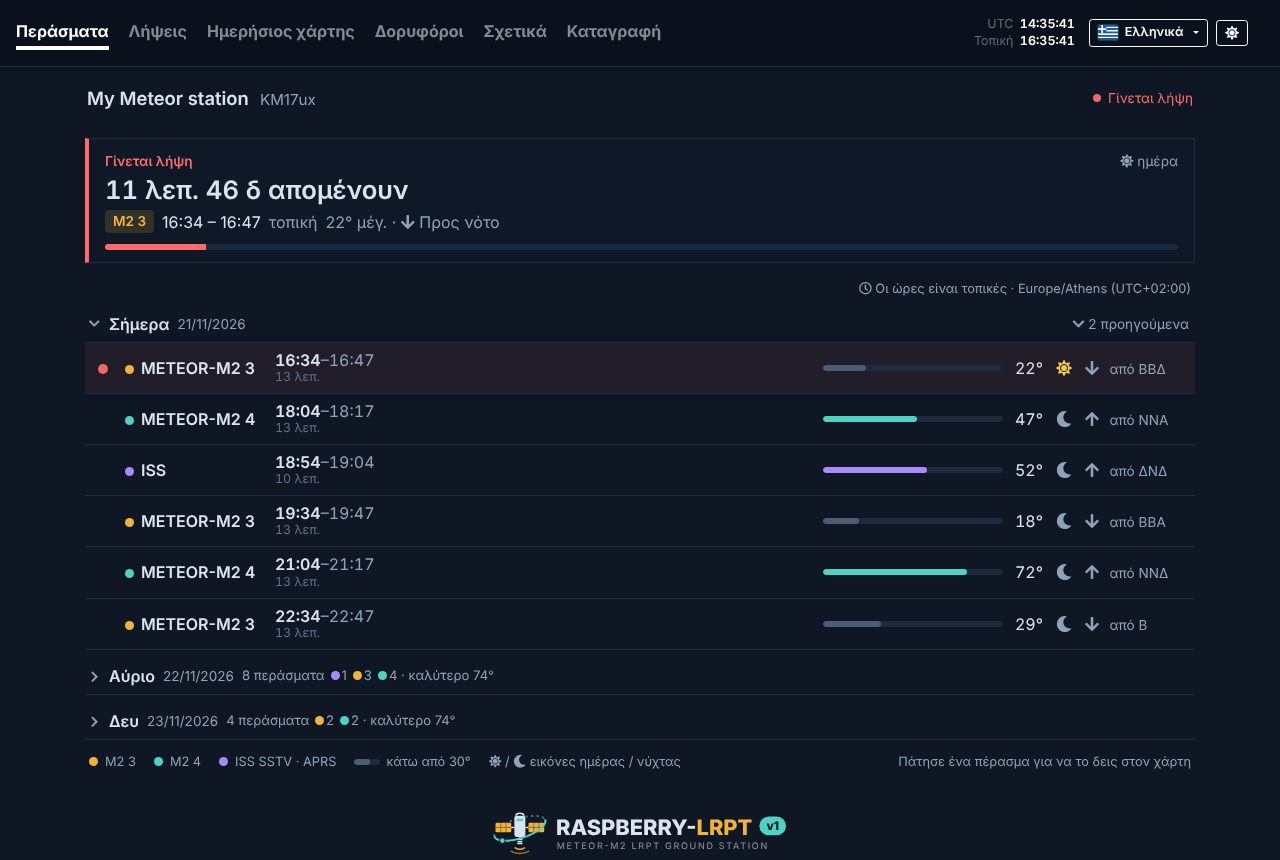
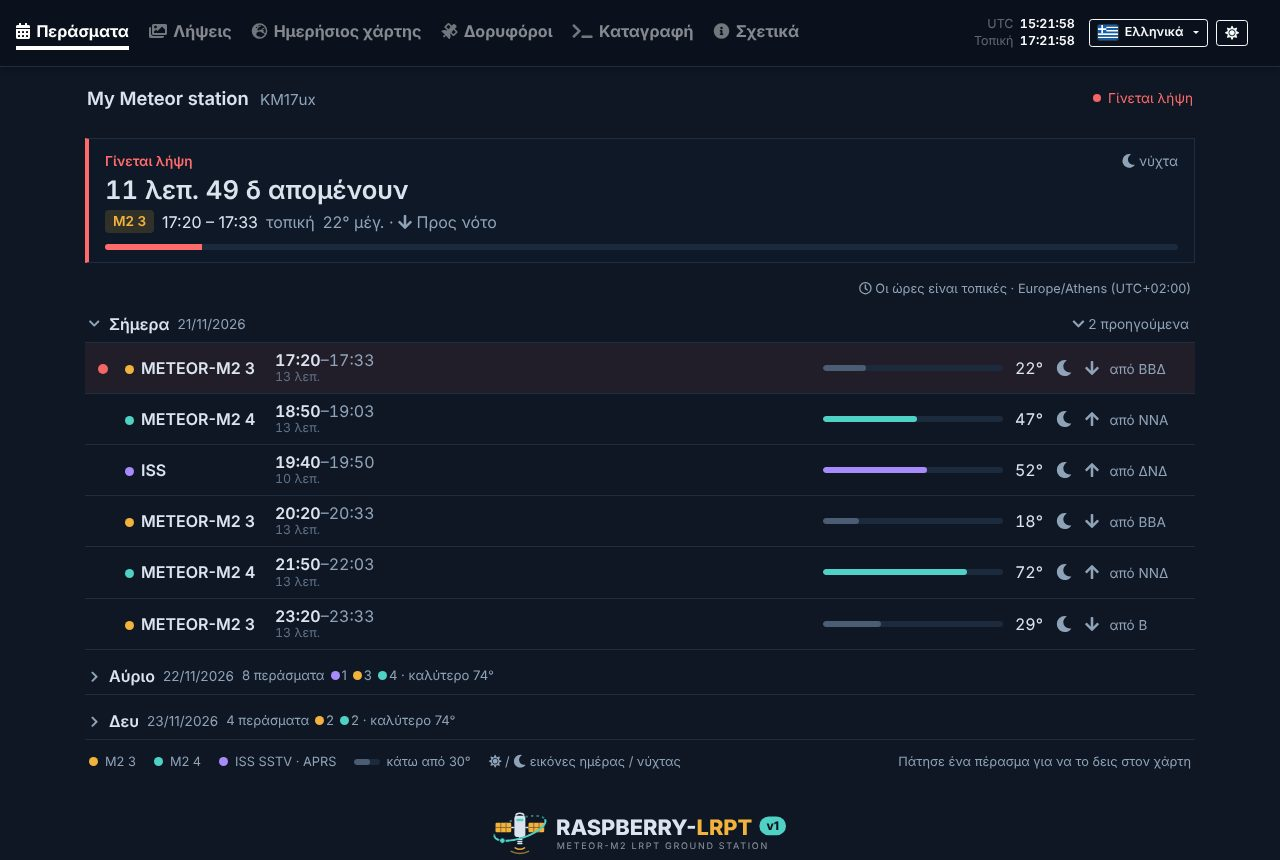
Raspberry-LRPT v1.36.4
Claude-Session: https://claude.ai/code/session_01VPPgZn6y6uSUhouM1kMaws

diff --git a/webpanel/App/Views/base.html b/webpanel/App/Views/base.html
@@ -40,28 +40,28 @@
       <div class="navbar navbar-expand navbar-dark bg-dark">
         <ul class="navbar-nav mr-auto">
           <li class="nav-item {% if page == 'passes' %} active {% endif %}">
-            <a class="nav-link" href="/passes">{{ lang['passes'] }}</a>
+            <a class="nav-link" href="/passes" title="{{ lang['passes'] }}" aria-label="{{ lang['passes'] }}"><i class="fas fa-calendar-alt nav-ic" aria-hidden="true"></i><span class="nav-long">{{ lang['passes'] }}</span></a>
           </li>
           {# order (v1.30.3): what's next, the results, the satellites, then the station log #}
           <li class="nav-item {% if page == 'captures' or page == 'capture'  %} active {% endif %}">
-            <a class="nav-link" href="/captures?page_no=1">{{ lang['captures'] }}</a>
+            <a class="nav-link" href="/captures?page_no=1" title="{{ lang['captures'] }}" aria-label="{{ lang['captures'] }}"><i class="fas fa-images nav-ic" aria-hidden="true"></i><span class="nav-long">{{ lang['captures'] }}</span></a>
           </li>
           {% if constant('Config\\Config::ENABLE_DAILY_MAP') is defined and constant('Config\\Config::ENABLE_DAILY_MAP') == 'true' %}
           <li class="nav-item {% if page == 'daily' %} active {% endif %}">
-            <a class="nav-link" href="/daily"><span class="nav-long">{{ lang['daily_map']|default('Daily map') }}</span><span class="nav-short">{{ lang['daily_map_short']|default('Map') }}</span></a>
+            <a class="nav-link" href="/daily" title="{{ lang['daily_map']|default('Daily map') }}" aria-label="{{ lang['daily_map']|default('Daily map') }}"><i class="fas fa-globe-europe nav-ic" aria-hidden="true"></i><span class="nav-long">{{ lang['daily_map']|default('Daily map') }}</span></a>
           </li>
           {% endif %}
           {% if constant('Config\\Config::ENABLE_EXPERIMENTAL_FEATURES') is defined
               and constant('Config\\Config::ENABLE_EXPERIMENTAL_FEATURES') == 'true' %}
           <li class="nav-item {% if page == 'satellite' %} active {% endif %}">
-            <a class="nav-link" href="/satellite"><span class="nav-long">{{ lang['nav_satellites']|default('Satellites') }}</span><span class="nav-short">{{ lang['nav_satellites_short']|default('Sats') }}</span></a>
+            <a class="nav-link" href="/satellite" title="{{ lang['nav_satellites']|default('Satellites') }}" aria-label="{{ lang['nav_satellites']|default('Satellites') }}"><i class="fas fa-satellite nav-ic" aria-hidden="true"></i><span class="nav-long">{{ lang['nav_satellites']|default('Satellites') }}</span></a>
           </li>
           {% endif %}
           <li class="nav-item {% if page == 'log' %} active {% endif %}">
-            <a class="nav-link" href="/log"><span class="nav-long">{{ lang['live_log']|default('Live log') }}</span><span class="nav-short">{{ lang['live_log_short']|default('Log') }}</span></a>
+            <a class="nav-link" href="/log" title="{{ lang['live_log']|default('Live log') }}" aria-label="{{ lang['live_log']|default('Live log') }}"><i class="fas fa-terminal nav-ic" aria-hidden="true"></i><span class="nav-long">{{ lang['live_log']|default('Live log') }}</span></a>
           </li>
           <li class="nav-item {% if page == 'about' %} active {% endif %}">
-            <a class="nav-link" href="/about"><span class="nav-long">{{ lang['nav_about']|default('About') }}</span><span class="nav-short" title="{{ lang['nav_about']|default('About') }}"><i class="fas fa-info-circle" aria-hidden="true"></i><span class="sr-only">{{ lang['nav_about_short']|default('About') }}</span></span></a>
+            <a class="nav-link" href="/about" title="{{ lang['nav_about']|default('About') }}" aria-label="{{ lang['nav_about']|default('About') }}"><i class="fas fa-info-circle nav-ic" aria-hidden="true"></i><span class="nav-long">{{ lang['nav_about']|default('About') }}</span></a>
           </li>
         </ul>
         {# live clocks: UTC and the station's local time (Config::TIMEZONE) #}

diff --git a/webpanel/public/assets/css/header.css b/webpanel/public/assets/css/header.css
@@ -39,7 +39,10 @@ html[dir="rtl"] header .clocks { margin-right: 0; margin-left: 0.9rem; align-ite
 html[dir="rtl"] header #theme-toggle { margin-right: 0 !important; margin-left: 1rem !important; }
 html[dir="rtl"] #meteor-map, html[dir="rtl"] .sl-log, html[dir="rtl"] .clock-time { direction: ltr; }
 
-header .nav-short { display: none; }
+/* menu icons: beside the label on wide screens, alone on phones (the label is the link's title
+   and aria-label) */
+header .nav-ic { margin-inline-end: 0.4rem; opacity: 0.85; }
+header .nav-link:hover .nav-ic, header .active .nav-ic { opacity: 1; }
 
 /* phones: keep the menu on one line (scrolls sideways if needed), drop the time zone */
 @media (max-width: 575.98px) {
@@ -55,15 +58,17 @@ header .nav-short { display: none; }
   html[dir="rtl"] header .clocks { margin-left: 0.5rem; }
   html[dir="rtl"] header #theme-toggle { margin-left: 0 !important; }
   header .nav-long { display: none; }
-  header .nav-short { display: inline; }
+  header .nav-ic { margin-inline-end: 0; font-size: 1.2rem; }
+  header ul.navbar-nav li a { padding-left: 0.3rem; padding-right: 0.3rem; margin-right: 0.8rem; }
+  html[dir="rtl"] header ul.navbar-nav li a { margin-left: 0.8rem; }
   header #theme-toggle { margin-right: 0 !important; }
 }
 /* narrow phones: the clocks drop their labels (UTC on top, local below) and their seconds
    (clipped: hh:mm shows), and the links sit closer, so the six menu items fit */
 @media (max-width: 419.98px) {
   header .clock-label { display: none; }
-  header ul.navbar-nav li a { margin-right: 0.36rem; font-size: 0.8rem; }
-  html[dir="rtl"] header ul.navbar-nav li a { margin-left: 0.36rem; }
+  header ul.navbar-nav li a { margin-right: 0.75rem; }
+  html[dir="rtl"] header ul.navbar-nav li a { margin-left: 0.75rem; }
   header .clock-time { min-width: 0; max-width: 4.15ch; overflow: hidden; white-space: nowrap; }
   header .clocks { margin-right: 0.35rem; }
 }

diff --git a/CHANGELOG.md b/CHANGELOG.md
@@ -1,5 +1,11 @@
 # Changelog
 
+## Raspberry-LRPT v1.36.4 (2026-11-21)
+
+- **Icons in the top menu.** Every menu item now has an icon next to its name. On phones the menu
+  shows the icons only, so it fits on one line with room to spare; the name appears when you hover
+  over an icon and is read out by screen readers.
+
 ## Raspberry-LRPT v1.36.3 (2026-11-21)
 
 - **About is now the last item in the top menu**, after Live log.
